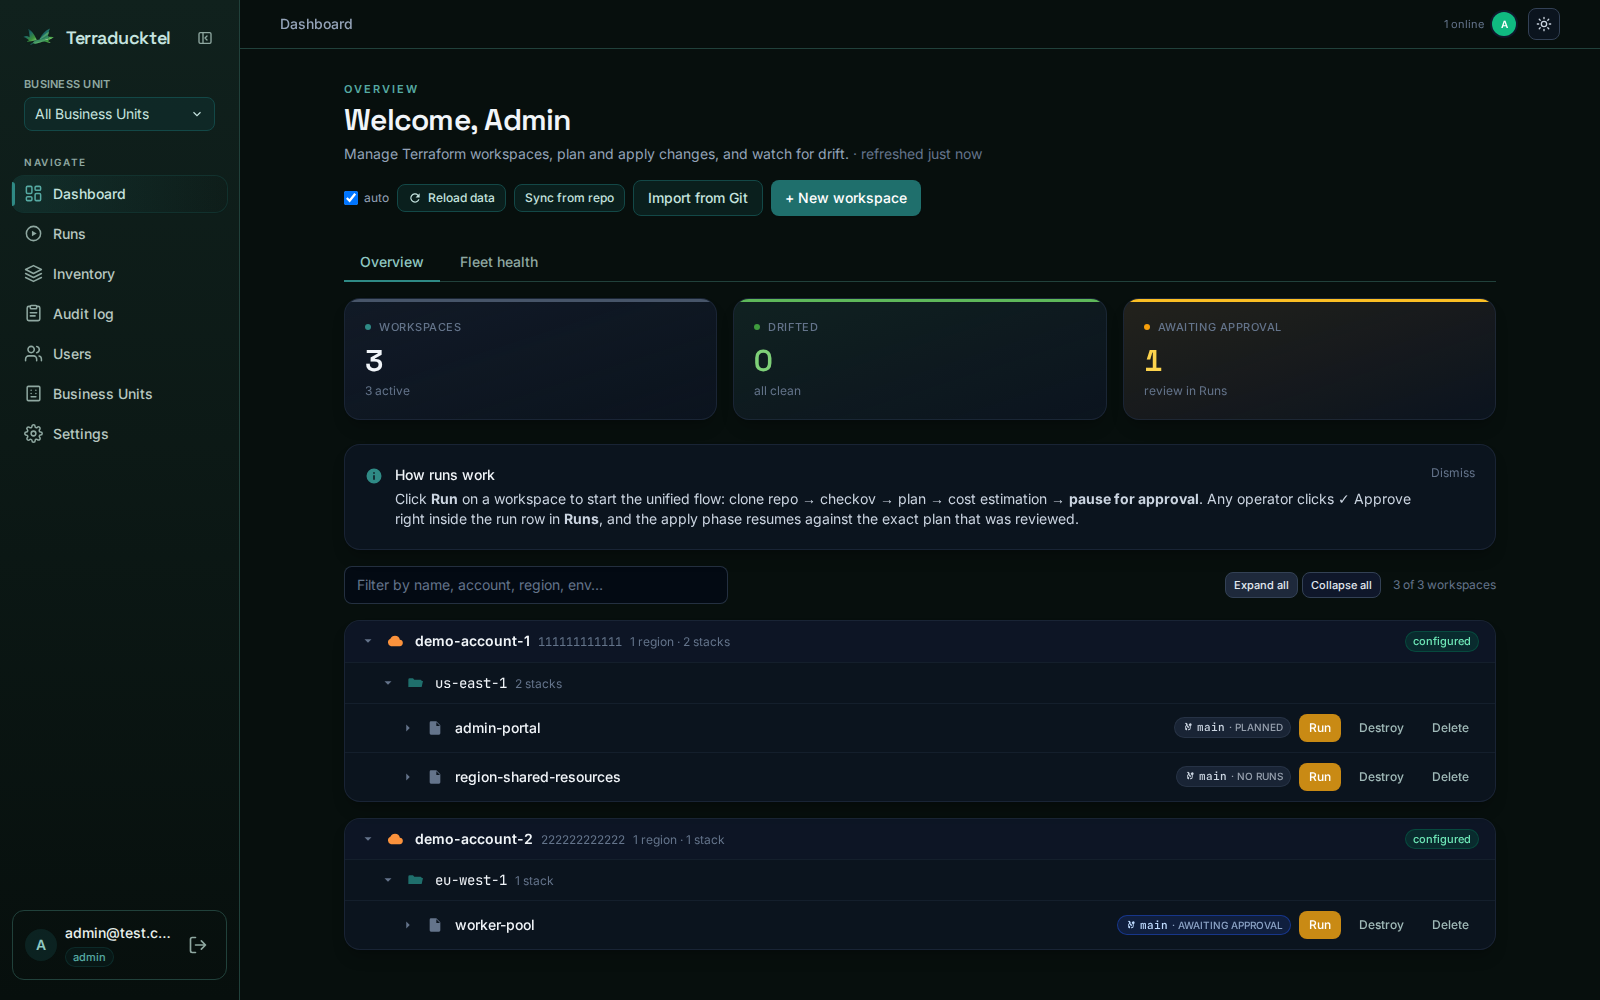
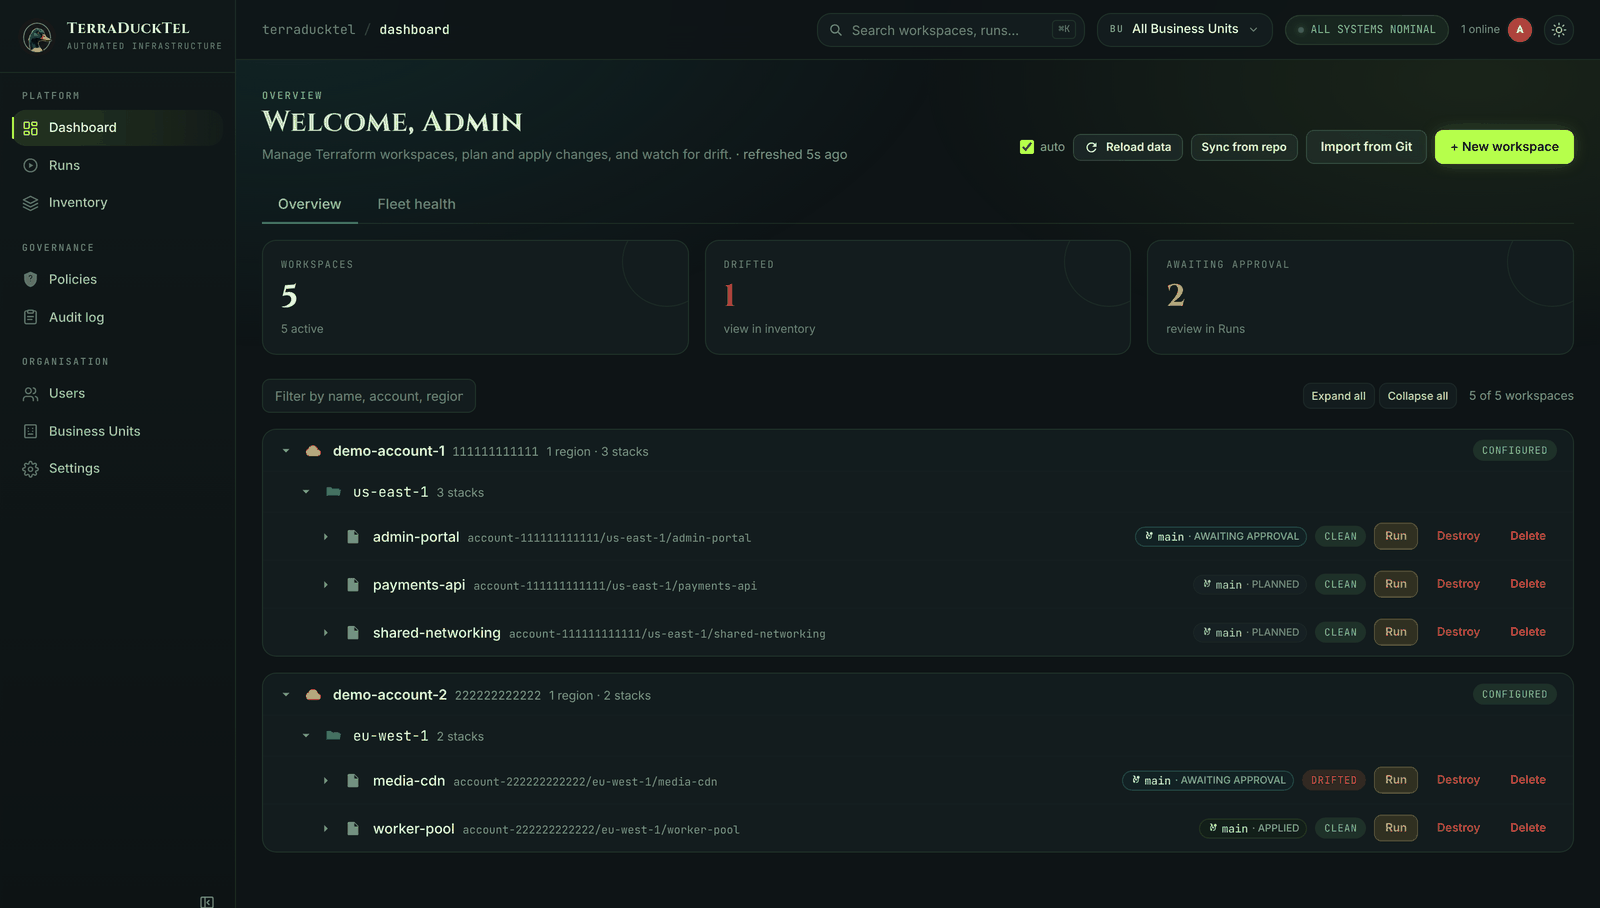
docs(readme): retake screenshots on the v2 console, refresh captions
The three README screenshots were captured 2026-07-07, two months before the
v2 console redesign. They showed the old chrome: the pre-redesign sidebar, the
old type scale, and none of the current surfaces (Policies, Fleet health, the
per-row drift/status badges). Anyone landing on the repo saw a product that no
longer looks like this.

Retaken against this branch's own code, so what the README shows is what the
repo builds:

- Dashboard — tree expanded across two cloud accounts and five stacks, each row
  carrying its branch, run status and drift badge; the three tiles above it
  non-zero (5 workspaces / 1 drifted / 2 awaiting approval) so the states are
  actually visible rather than an empty fleet.
- Run detail — the full pipeline paused at the approval gate, every step with
  its own duration and summary (plan counts, Checkov tally, cost delta).
- Approvals — the runs queue filtered to awaiting approval, two production
  applies with Approve/Reject inline, and the status filter counts beside it.

Captured from a throwaway stack with invented fixtures: accounts
111111111111 / 222222222222, generic stack names, the seeded admin@test.com.
No real infrastructure, account or workspace names appear in any image.

Also in this change:

- The state-path example used `region-shared-resources`, a workspace name
  carried over from the private repo it was extracted from. Now
  `shared-networking`, matching the screenshots.
[…]

diff --git a/README.md b/README.md
@@ -11,7 +11,7 @@
 </p>
 
 <p align="center">
-  <a href="services/api/tests"><img src="https://img.shields.io/badge/tests-461%20passing-brightgreen.svg" alt="tests"></a>
+  <a href="services/api/tests"><img src="https://img.shields.io/badge/tests-663%20passing-brightgreen.svg" alt="tests"></a>
   <a href="#license"><img src="https://img.shields.io/badge/license-MIT-blue.svg" alt="license"></a>
   <a href="services/api/pyproject.toml"><img src="https://img.shields.io/badge/python-3.12-blue.svg" alt="python"></a>
   <a href="services/executor/Dockerfile"><img src="https://img.shields.io/badge/terraform-1.10-7B42BC.svg" alt="terraform"></a>
@@ -44,15 +44,21 @@ credentials.
 
 ### Dashboard
 
-Every workspace, grouped by AWS account and region, with live drift and approval status.
+Every workspace, grouped by cloud account and region, with live drift and approval
+status on each row. The tiles across the top are the only three numbers most
+operators check: how many stacks exist, how many have drifted away from code, and
+how many applies are waiting on a human.
 
-![Terraducktel dashboard showing a workspace tree grouped by AWS account, with drift and approval KPIs](docs/branding/screenshots/dashboard.png)
+![Terraducktel dashboard: a workspace tree grouped by cloud account and region, with workspace, drift and awaiting-approval tiles above it](docs/branding/screenshots/dashboard.png)
 
 ### Run detail
 
-The full `git clone → checkov → plan → policy → cost` pipeline, step by step, with live output streaming.
+The full `git clone → checkov → plan → policy → cost` pipeline, step by step, with
+live output streaming. Each step carries its own duration and summary — the plan's
+resource counts, Checkov's pass/fail tally, the cost delta — so a reviewer can see
+what changed without opening the raw log.
 
-![Run detail page showing a green step-by-step Terraform pipeline timeline](docs/branding/screenshots/run-detail.png)
+![Run detail: a step-by-step Terraform pipeline timeline, each step green with its duration, paused on Awaiting Approval](docs/branding/screenshots/run-detail.png)
 
 ### Gated approval
 
@@ -60,7 +66,7 @@ Every `apply` pauses until an operator reviews the *exact* plan and clicks Appro
 Any operator, including the run's own triggering user (4-eyes was tried and retired
 — see [`CLAUDE.md`](CLAUDE.md)).
 
-![Approvals queue showing a production apply awaiting operator approval](docs/branding/screenshots/approvals.png)
+![Runs queue filtered to awaiting approval: two production applies, each with Approve and Reject beside the plan output](docs/branding/screenshots/approvals.png)
 
 ## What it does
 
@@ -263,11 +269,11 @@ Per-account, mirroring the git path:
 s3://<aws_account.state_bucket>/<workspace.tf_working_dir>/terraform.tfstate
 ```
 
-So a stack imported from `account-111111111111/eu-central-1/region-shared-resources`
+So a stack imported from `account-111111111111/eu-central-1/shared-networking`
 ends up at:
 
 ```
-s3://<account-111's bucket>/account-111111111111/eu-central-1/region-shared-resources/terraform.tfstate
+s3://<account-111's bucket>/account-111111111111/eu-central-1/shared-networking/terraform.tfstate
 ```
 
 — exactly mirroring the repo layout. If your `.tf` already declares its own
